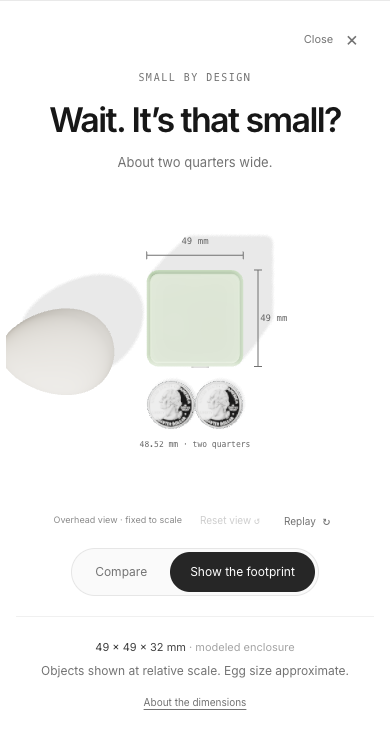
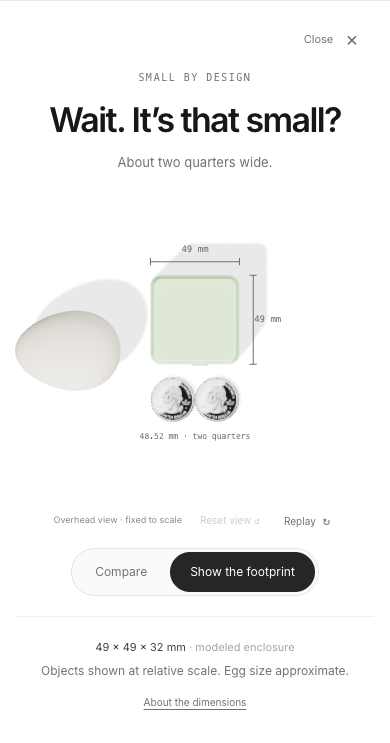
Keep all comparison objects within mobile camera bounds

diff --git a/src/scale/config.js b/src/scale/config.js
@@ -2,7 +2,7 @@
 export const scaleConfig = {
  dimensions: {product: {width:49,depth:49,height:32,retailHeight:36},quarter:{diameter:24.26,thickness:1.75,reeds:119},egg:{length:58,diameter:44}},
  timing:{reveal:2600,view:1000},
- camera:{compare:[65,130,190],overhead:[0,220,.001],target:[-13,13,12],span:174,mobileSpan:192,closeSpan:62},
+ camera:{compare:[65,130,190],overhead:[0,220,.001],target:[-13,13,12],span:174,mobileSpan:208,closeSpan:62},
  positions:{egg:[-67,0,17],coin:[46,0,29],footprintZ:44},
  interaction:{yawLimit:.6,pitchLimit:.18,dragSpeed:.005,keyStep:.08},
  quality:{pixelRatio:1.6,shadowSize:1024},
